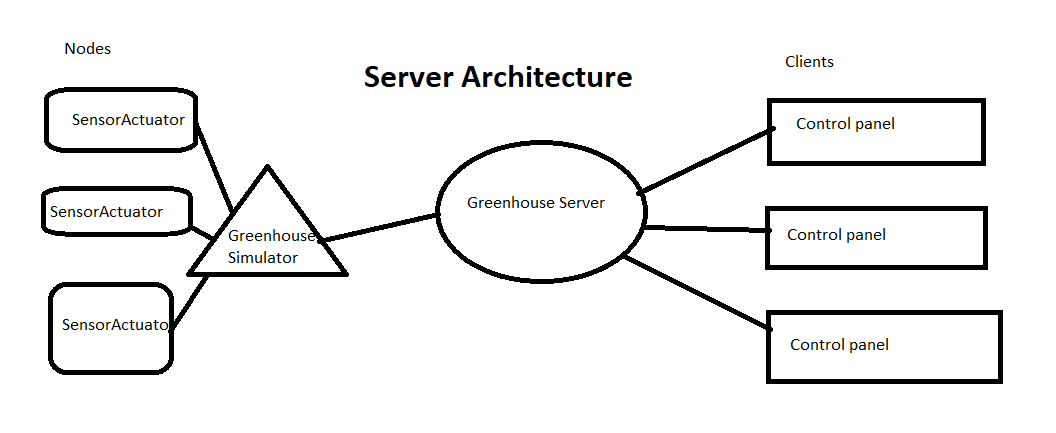
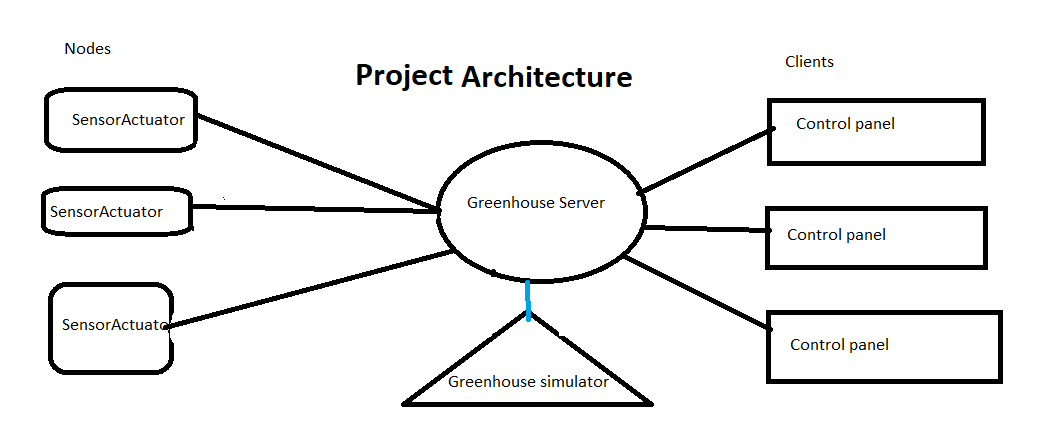
group session: implement communication classes, write som protocol, some work on nodes

diff --git a/src/main/java/no/ntnu/server/ClientHandler.java b/src/main/java/no/ntnu/server/ClientHandler.java
@@ -1,12 +1,14 @@
 package no.ntnu.server;
 
+import java.io.PrintWriter;
 import no.ntnu.greenhouse.GreenhouseSimulator;
-import no.ntnu.messages.Message;
-import no.ntnu.messages.Command;
+import no.ntnu.communication.Message;
+import no.ntnu.communication.Command;
 import java.io.BufferedReader;
 import java.io.IOException;
 import java.io.InputStreamReader;
 import java.net.Socket;
+import no.ntnu.communication.MessageSerializer;
 
 public class ClientHandler extends Thread {
     private BufferedReader socketReader;
@@ -54,6 +56,15 @@ public class ClientHandler extends Thread {
                 System.err.println("Could not execute command: " + e.getMessage());
             }
 
+            if (response != null) {
+                sendResponseToClient(response);
+            }
+
+            //TODO, if the message is something all clients need to be notified of,
+            //then use notify clients method in server class
+
+
+
             System.out.println("Recieved from client: " + clientCommand);
         } while (response != null);
     }
@@ -68,16 +79,22 @@ public class ClientHandler extends Thread {
                 clientCommand = null;
             }
         } catch (IOException e) {
-            System.err.println("Could not recieve client request: " + e.getMessage());
+            System.err.println("Could not receive client request: " + e.getMessage());
         }
         return (Command) clientCommand;
     }
-
+ 
     private void sendResponseToClient(Message response) {
-        //TODO finish implementation
+        try {
+            new PrintWriter(clientSocket.getOutputStream(), true)
+                .println(MessageSerializer.toString(response));
+            System.out.println("Sent response to " + clientSocket.getRemoteSocketAddress());
+        } catch (IOException e) {
+            System.err.println("IOException" + e.getMessage());
+        }
     }
 
     private void notifyAllClients(Message response) {
-        server.notifyAllClients();
+        server.notifyAllClients(response);
     }
 }

diff --git a/src/main/java/no/ntnu/communication/MessageSerializer.java b/src/main/java/no/ntnu/communication/MessageSerializer.java
@@ -1,0 +1,40 @@
+package no.ntnu.communication;
+
+import no.ntnu.communication.commands.*;
+import no.ntnu.communication.messages.ActuatorListMessage;
+import no.ntnu.communication.messages.HumidityMessage;
+import no.ntnu.communication.messages.ListOfNodesMessage;
+import no.ntnu.communication.messages.SensorListMessage;
+import no.ntnu.communication.messages.StateMessage;
+import no.ntnu.communication.messages.TemperatureMessage;
+
+public class MessageSerializer {
+  public static Message fromString(String rawClientRequest) {
+    Message message = null;
+    String[] tokens = rawClientRequest.split("\\|");
+    switch (tokens[0]) {
+      //Commands
+      case "on" -> message = new TurnOnCommand(tokens[1], tokens[2]);
+      case "off" -> message = new TurnOffCommand(tokens[1], tokens[2]);
+      case "toggle" -> message = new Toggle(tokens[1], tokens[2]);
+      case "getState" -> message = new GetStateCommand(tokens[1], tokens[2]);
+      case "getSensors" -> message = new GetListOfSensors(tokens[1]);
+      case "getActuators" -> message = new GetListOfActuators(tokens[1]);
+      case "getNodes" -> message = new GetListOfNodes();
+      case "getValue" -> message = new GetValueCommand(tokens[1], tokens[2]);
+      //Messages
+      case "temp" -> message = new TemperatureMessage(tokens[1], tokens[2], tokens[3]);
+      case "humid" -> message = new HumidityMessage(tokens[1], tokens[2], tokens[3]);
+      case "state" -> message = new StateMessage(tokens[1], tokens[2], tokens[3]);
+      case "sensors" -> message = new SensorListMessage(tokens[1], tokens[2]);
+      case "actuators" -> message = new ActuatorListMessage(tokens[1], tokens[2]);
+      case "nodes" -> message = new ListOfNodesMessage();
+    }
+
+    return message;
+  }
+
+  public static boolean toString(Message response) {
+    throw new UnsupportedOperationException();
+  }
+}

diff --git a/src/main/java/no/ntnu/greenhouse/Sensor.java b/src/main/java/no/ntnu/greenhouse/Sensor.java
@@ -1,5 +1,8 @@
 package no.ntnu.greenhouse;
 
+import java.util.ArrayList;
+import java.util.List;
+
 /**
  * A sensor which can sense the environment in a specific way.
  */
@@ -7,6 +10,7 @@ public class Sensor {
   private final SensorReading reading;
   private final double min;
   private final double max;
+  private final String sensorNodeId;
 
   /**
    * Create a sensor.
@@ -16,12 +20,24 @@ public class Sensor {
    * @param max     Maximum allowed value
    * @param current The current (starting) value of the sensor
    * @param unit    The measurement unit. Examples: "%", "C", "lux"
+   * @param sensorNodeId The id for the sensor node.
    */
-  public Sensor(String type, double min, double max, double current, String unit) {
+  public Sensor(String type, double min, double max, double current, String unit, String sensorNodeId) {
     this.reading = new SensorReading(type, current, unit);
     this.min = min;
     this.max = max;
+    this.sensorNodeId = sensorNodeId;
     ensureValueBoundsAndPrecision(current);
+
+  }
+
+  /**
+   * Getter for sensor node id.
+   *
+   * @return returns the sensor node id.
+   */
+  public String getSensorNodeId() {
+    return sensorNodeId;
   }
 
   public String getType() {
@@ -44,7 +60,7 @@ public class Sensor {
    */
   public Sensor createClone() {
     return new Sensor(this.reading.getType(), this.min, this.max,
-        this.reading.getValue(), this.reading.getUnit());
+        this.reading.getValue(), this.reading.getUnit(), this.sensorNodeId);
   }
 
   /**

diff --git a/src/main/java/no/ntnu/greenhouse/GreenhouseSimulator.java b/src/main/java/no/ntnu/greenhouse/GreenhouseSimulator.java
@@ -1,10 +1,14 @@
 package no.ntnu.greenhouse;
 
+import java.io.IOException;
+import java.net.InetAddress;
+import java.net.Socket;
 import java.util.HashMap;
 import java.util.LinkedList;
 import java.util.List;
 import java.util.Map;
 import no.ntnu.listeners.greenhouse.NodeStateListener;
+import no.ntnu.server.GreenhouseServer;
 import no.ntnu.tools.Logger;
 
 /**
@@ -15,6 +19,7 @@ public class GreenhouseSimulator {
 
   private final List<PeriodicSwitch> periodicSwitches = new LinkedList<>();
   private final boolean fake;
+  private GreenhouseServer server;
 
   /**
    * Create a greenhouse simulator.
@@ -65,8 +70,9 @@ public class GreenhouseSimulator {
     }
   }
 
+
   private void initiateRealCommunication() {
-    // TODO - here you can set up the TCP or UDP communication
+    // TODO - set up TCP communication
   }
 
   private void initiateFakePeriodicSwitches() {
@@ -95,7 +101,7 @@ public class GreenhouseSimulator {
   }
 
   /**
-   * Add a listener for notification of node staring and stopping.
+   * Add a listener for notification of node starting and stopping.
    *
    * @param listener The listener which will receive notifications
    */
@@ -103,5 +109,13 @@ public class GreenhouseSimulator {
     for (SensorActuatorNode node : nodes.values()) {
       node.addStateListener(listener);
     }
+  }
+
+  /**
+   * Sets the server of this greenhouse.
+   * @param greenhouseServer
+   */
+  public void setServer(GreenhouseServer greenhouseServer) {
+    this.server = greenhouseServer;
   }
 }

diff --git a/src/main/java/no/ntnu/greenhouse/DeviceFactory.java b/src/main/java/no/ntnu/greenhouse/DeviceFactory.java
@@ -1,5 +1,7 @@
 package no.ntnu.greenhouse;
 
+import java.util.List;
+
 /**
  * A factory for producing sensors and actuators of specific types.
  */
@@ -13,8 +15,9 @@ public class DeviceFactory {
   private static final double NORMAL_GREENHOUSE_HUMIDITY = 80;
   private static final String HUMIDITY_UNIT = "%";
   private static final String SENSOR_TYPE_TEMPERATURE = "temperature";
-
   private static int nextNodeId = 1;
+  private static final String SENSOR_NODE_ID = "10";
+
 
   /**
    * Constructing the factory is not allowed.
@@ -74,7 +77,7 @@ public class DeviceFactory {
    */
   public static Sensor createTemperatureSensor() {
     return new Sensor(SENSOR_TYPE_TEMPERATURE, MIN_TEMPERATURE, MAX_TEMPERATURE,
-        randomize(NORMAL_GREENHOUSE_TEMPERATURE, 1.0), TEMPERATURE_UNIT);
+        randomize(NORMAL_GREENHOUSE_TEMPERATURE, 1.0), TEMPERATURE_UNIT, SENSOR_NODE_ID);
   }
 
   /**
@@ -84,7 +87,7 @@ public class DeviceFactory {
    */
   public static Sensor createHumiditySensor() {
     return new Sensor("humidity", MIN_HUMIDITY, MAX_HUMIDITY,
-        randomize(NORMAL_GREENHOUSE_HUMIDITY, 5.0), HUMIDITY_UNIT);
+        randomize(NORMAL_GREENHOUSE_HUMIDITY, 5.0), HUMIDITY_UNIT, SENSOR_NODE_ID);
   }
 
   /**

diff --git a/src/main/java/no/ntnu/server/GreenhouseServer.java b/src/main/java/no/ntnu/server/GreenhouseServer.java
@@ -7,6 +7,7 @@ import java.io.IOException;
 import java.net.ServerSocket;
 import java.net.Socket;
 import java.util.ArrayList;
+import no.ntnu.communication.Message;
 
 public class GreenhouseServer {
     public static final int PORT_NUMBER = 1025;
@@ -18,6 +19,15 @@ public class GreenhouseServer {
     public GreenhouseServer(GreenhouseSimulator greenhouseSimulator) {
         this.greenhouseSimulator = greenhouseSimulator;
         this.clients = new ArrayList<>();
+    }
+
+    /**
+     * Initializes and starts the greenhouse.
+     */
+    public void startGreenhouse() {
+        greenhouseSimulator.initialize();
+        greenhouseSimulator.setServer(this);
+        greenhouseSimulator.start();
     }
 
     /**
@@ -69,4 +79,10 @@ public class GreenhouseServer {
     private void stopServer() {
         isTcpServerRunning = false;
     }
+
+    /**
+     * Sends a message to all the clients currently connected to the server.
+     */
+  public void notifyAllClients(Message response) {
+  }
 }

diff --git a/src/main/java/no/ntnu/run/ControlPanelStarter.java b/src/main/java/no/ntnu/run/ControlPanelStarter.java
@@ -55,7 +55,7 @@ public class ControlPanelStarter {
   }
 
   private CommunicationChannel initiateSocketCommunication(ControlPanelLogic logic) {
-    // TODO - here you initiate TCP/UDP socket communication
+    //TODO - here you initiate TCP/UDP socket communication
     // You communication class(es) may want to get reference to the logic and call necessary
     // logic methods when events happen (for example, when sensor data is received)
     return null;

diff --git a/src/main/java/no/ntnu/communication/messages/TemperatureMessage.java b/src/main/java/no/ntnu/communication/messages/TemperatureMessage.java
@@ -1,0 +1,14 @@
+package no.ntnu.communication.messages;
+
+import no.ntnu.communication.Message;
+
+public class TemperatureMessage extends Message {
+  public TemperatureMessage(String value, String nodeID, String sensorID) {
+    super();
+  }
+
+  @Override
+  public String messageAsString() {
+    return null;
+  }
+}

diff --git a/src/main/java/no/ntnu/communication/messages/ActuatorListMessage.java b/src/main/java/no/ntnu/communication/messages/ActuatorListMessage.java
@@ -1,0 +1,15 @@
+package no.ntnu.communication.messages;
+
+import no.ntnu.communication.Message;
+
+public class ActuatorListMessage extends Message {
+  public ActuatorListMessage(String listOfMessages, String nodeID){
+    super();
+
+  }
+
+  @Override
+  public String messageAsString() {
+    return null;
+  }
+}

diff --git a/src/main/java/no/ntnu/communication/messages/HumidityMessage.java b/src/main/java/no/ntnu/communication/messages/HumidityMessage.java
@@ -1,0 +1,14 @@
+package no.ntnu.communication.messages;
+
+import no.ntnu.communication.Message;
+
+public class HumidityMessage extends Message {
+  public HumidityMessage(String value, String nodeID, String sensorID) {
+    super();
+  }
+
+  @Override
+  public String messageAsString() {
+    return null;
+  }
+}

diff --git a/src/main/java/no/ntnu/communication/messages/StateMessage.java b/src/main/java/no/ntnu/communication/messages/StateMessage.java
@@ -1,0 +1,14 @@
+package no.ntnu.communication.messages;
+
+import no.ntnu.communication.Message;
+
+public class StateMessage extends Message {
+  public StateMessage(String value, String nodeID, String actuatorID) {
+    super();
+  }
+
+  @Override
+  public String messageAsString() {
+    return null;
+  }
+}

diff --git a/src/main/java/no/ntnu/communication/messages/SensorListMessage.java b/src/main/java/no/ntnu/communication/messages/SensorListMessage.java
@@ -1,0 +1,14 @@
+package no.ntnu.communication.messages;
+
+import no.ntnu.communication.Message;
+
+public class SensorListMessage extends Message {
+  public SensorListMessage(String listOfSensors, String nodeID) {
+    super();
+  }
+
+  @Override
+  public String messageAsString() {
+    return null;
+  }
+}
